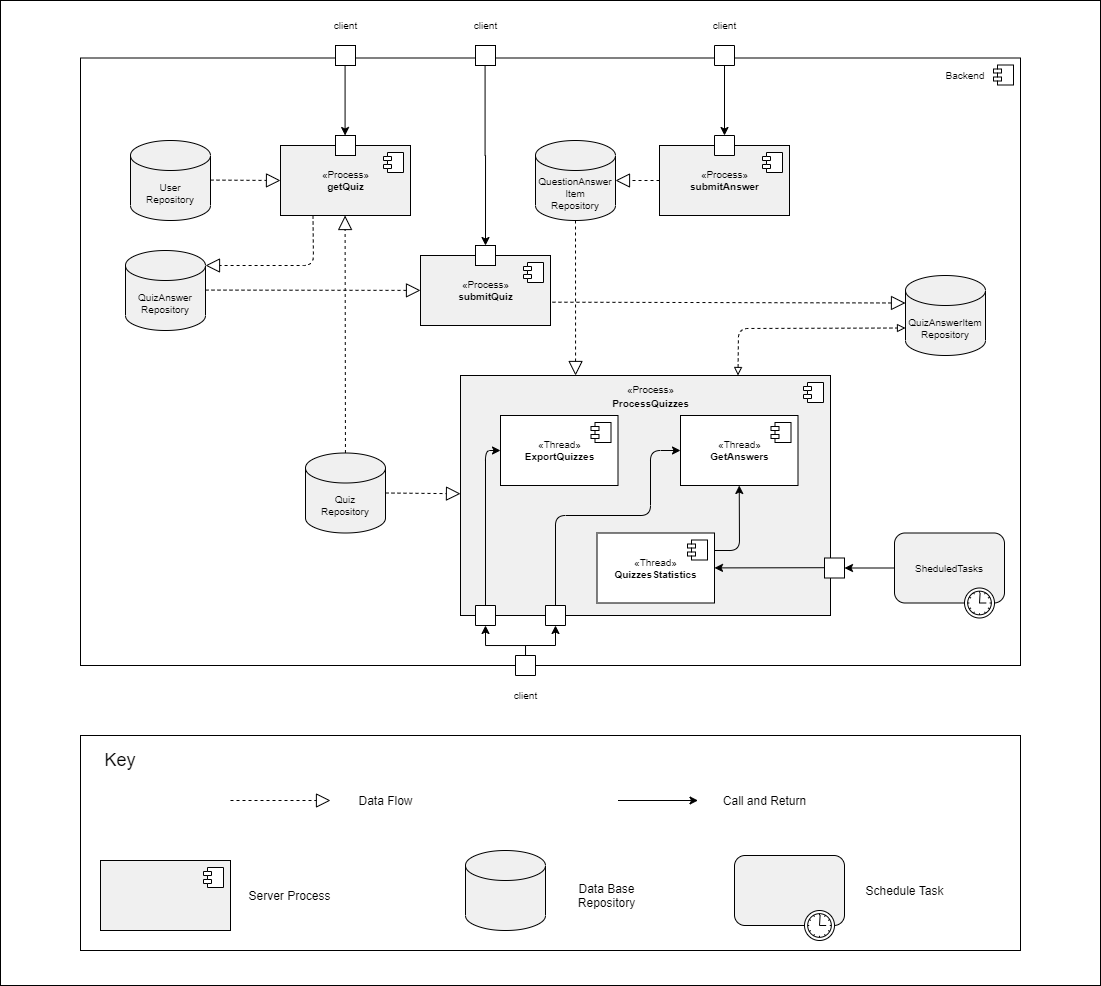
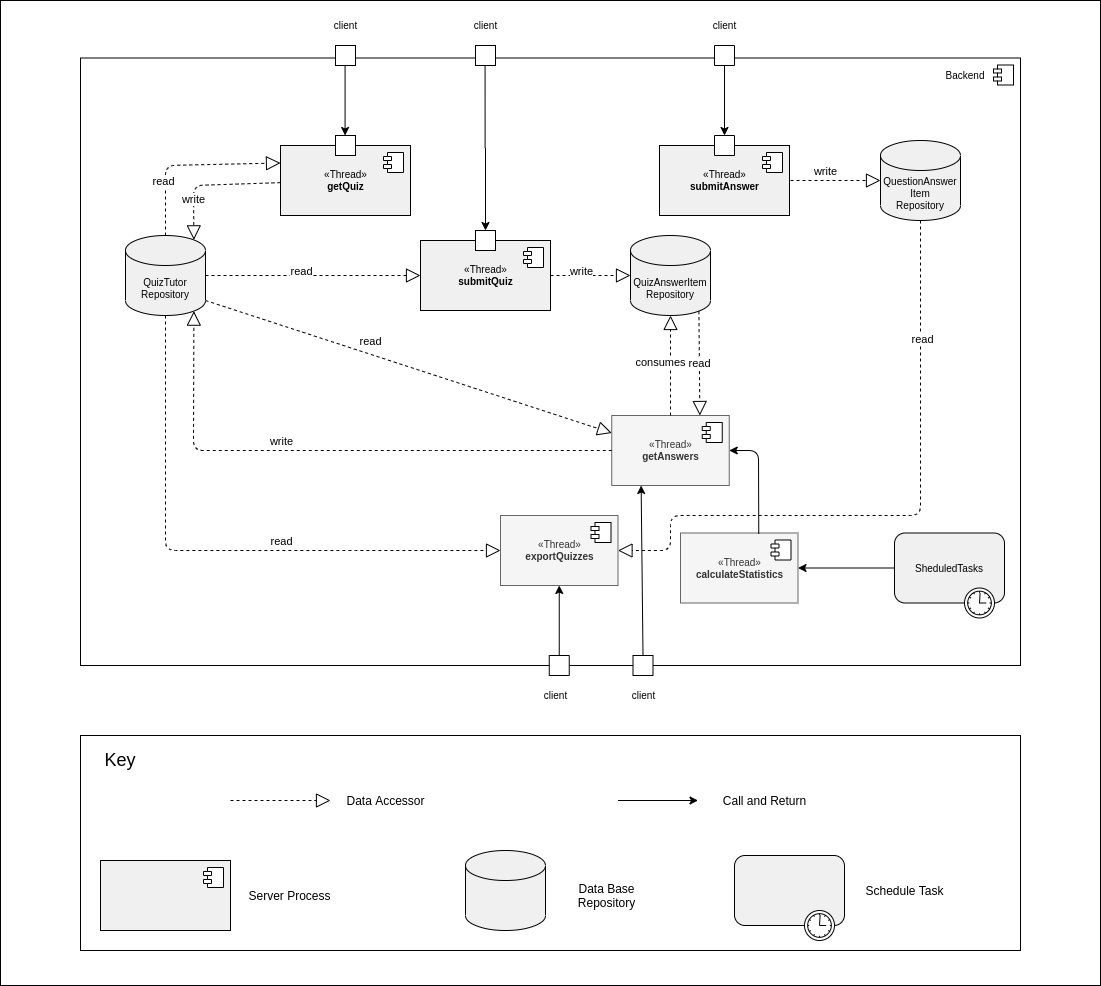
update performance architecture and add scalability architecture

diff --git a/as-report.md b/as-report.md
@@ -11,7 +11,7 @@
 
 **1)** After the login and within a period of 10s, 600 student users make a request stochasticly by inserting a code to get access to the quiz. The Quizzes Tutor, in normal operation, sends the quiz's questions to each user in less than 30 miliseconds.
 
-**2)** After accessing the quiz, 600 students wait until the of the timer to start the quiz. All the students answer to the questions following a normal distribution and in the end conclude the quiz. The quizzes tutor receives the answers and the and final submissions and saves, for each student, this information in a database in less than 15 miliseconds.
+**2)** After accessing the quiz, 600 students wait until the end of the timer to start the quiz. All the students answer to the questions following a normal distribution and in the end conclude the quiz. The quizzes tutor receives the answers and the final submissions and saves, for each student, this information in a database in less than 15 miliseconds.
   
 
 ### Tests
@@ -34,7 +34,7 @@ This first test tried to simulate a real scenario where multiple students insert
 * 1000 students
 ![1000 Students at a random time 1s-10s](report-resources/performance-getquiz-1000_rt.png)
 
-**Conclusions:** With this tests we can conclude that at least until 1000 students, the average time taken to get the quiz is independent of the number of students.
+**Conclusions:** With these tests we can conclude that at least until 1000 students, the average time taken to get the quiz is independent of the number of students.
 
 
 This second test tried to simulate a limit scenario where all the students insert the code at the same time (This test uses a synchronizing timer to make sure that all threads are created before the get quiz sample starts)
@@ -71,7 +71,7 @@ This test corresponds to the scenario 2.
 * 1000 students
 ![1000 Students at a random time 1s-10s](report-resources/performance-answerquiz-1000_normt.png)
 
-**Conclusions:** With this test we can see that the process of answering a quiz is independent of the number of students (at least until 1000 students) and it's fastest than getting a quiz.
+**Conclusions:** With this test we can see that the process of answering a quiz is independent of the number of students (at least until 1000 students) and it's faster than getting a quiz.
 
 
 In this test, we tried to simulate an unrealistic scenario where all the students get the quiz and answer the questions at the same time, without having time to "think". We pretended to stress test the system to see how it would cope.
@@ -83,8 +83,23 @@ In this test, we tried to simulate an unrealistic scenario where all the student
 * 1000 students
 ![1000 Students at the same time](report-resources/performance-answerquiz-1000_st.png)
 
-**Conclusions:** In this second test, we can see that the average times in the process of answering a quiz are proportional to the number of students but not as much as in the get quiz test. This time, even with 1000 students answering at the same time, the average is below 1s. So with all this tests, we can conclude that the system that already exists achieves the performance desired to fulfill the requirement of having 1000 students answering a quiz using a code, previously populated with answers.
+**Conclusions:** In this second test, we can see that the average times in the process of answering a quiz are proportional to the number of students but not as much as in the get quiz test. This time, even with 1000 students answering at the same time, the average is below 1s. So with all these tests, we can conclude that the system that already exists achieves the performance desired to fulfill the requirement of having 1000 students answering a quiz using a code, previously populated with answers.
 
 ![Performance chart](report-resources/performance_chart.png)
 
-In the chart above we can observe that the performance almost follows a linear distribution, even for high number of simultaneous users.
+In the chart above we can observe that the performance almost follows a linear distribution, even for a high number of simultaneous users.
+
+
+## Scalability
+
+Analyzing the test for performance, we detected a bottleneck in the access to the database while submitting an answer and concluding the quiz. Therefore, we made the following changes:
+* Turned the QuizAnswerItem Repository into a Queue, where the submitQuiz threads produce QuizAnswerItem and the getAnswers thread consumes;
+* Instead of having one QuestionAnswerItem Repository we have an individual repository for each instance of submitAnswer.
+
+### Architecture
+
+![Scalability Architecture](report-resources/scalability-architecture.png)
+
+### Scenarios
+
+### Tests
